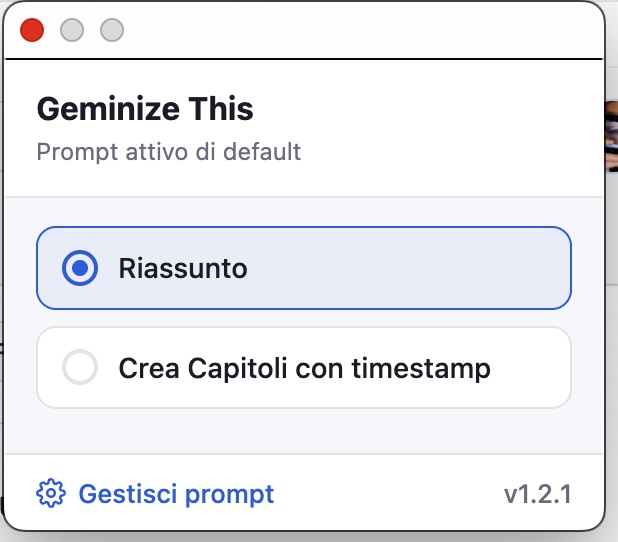
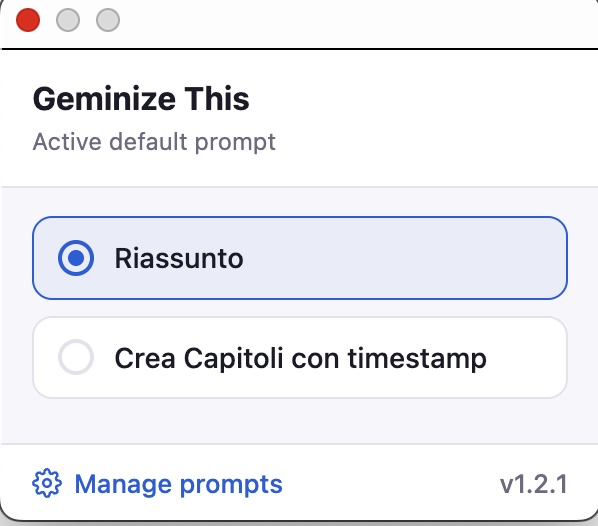
docs: add screenshots to READMEs; release v1.2.2 'Helium Cakes'
Bundle the English-UI work for release: changelog entry + version bump to
1.2.2, and add toolbar/context-menu/prompt-archive screenshots to both the
English and Italian READMEs.

diff --git a/README.it.md b/README.it.md
@@ -8,6 +8,22 @@ per riassumerli e analizzarli.
 > Nota: l'interfaccia dell'estensione è in inglese. Questa è la documentazione
 > in italiano del progetto.
 
+## Screenshot
+
+**Menu contestuale "Geminize this"** — clic destro su un link al video (o sulla
+pagina del video) e scegli un prompt:
+
+![Menu contestuale Geminize this](screenshots/contextual-menu.jpg)
+
+**Popup nella toolbar** — cambia rapidamente il prompt di default attivo:
+
+![Popup nella toolbar](screenshots/toolbar.jpg)
+
+**Archivio dei prompt** — crea, modifica, importa/esporta i prompt e imposta
+quello di default:
+
+![Pagina Opzioni dell'archivio prompt](screenshots/prompt-archive.jpg)
+
 ## Come funziona
 
 1.  **Menu contestuale**: l'estensione aggiunge il sottomenu "Geminize this" al

diff --git a/README.md b/README.md
@@ -4,6 +4,20 @@
 
 A Chrome extension that seamlessly sends YouTube videos to Google Gemini for summarization and analysis.
 
+## Screenshots
+
+**"Geminize this" context menu** — right-click a video link (or the watch page) and pick a prompt:
+
+![Geminize this context menu](screenshots/contextual-menu.jpg)
+
+**Toolbar popup** — quickly switch the active default prompt:
+
+![Toolbar popup](screenshots/toolbar.jpg)
+
+**Prompt archive** — create, edit, import/export prompts and set the default:
+
+![Prompt archive options page](screenshots/prompt-archive.jpg)
+
 ## How it Works
 
 1.  **Context Menu**: The extension adds a "Geminize this" submenu to your browser's right-click context menu. It appears both when you right-click a YouTube video link (e.g. a thumbnail in the feed) and anywhere on a video's watch page, so you can summarize the video you're currently watching. The submenu lists all your saved prompts, with the default one on top.